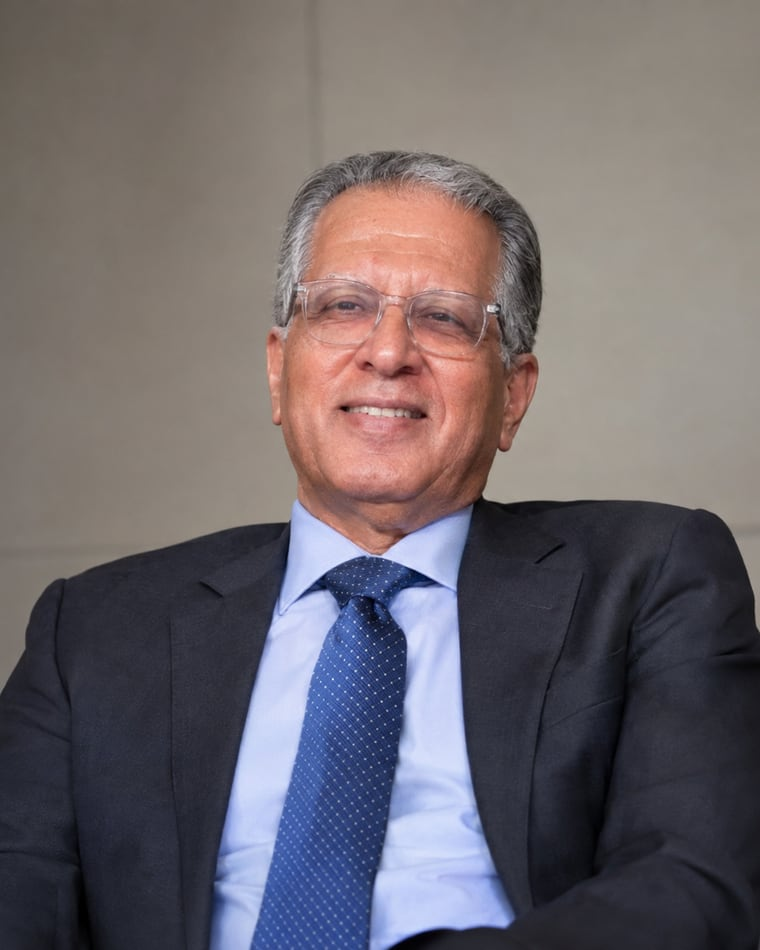
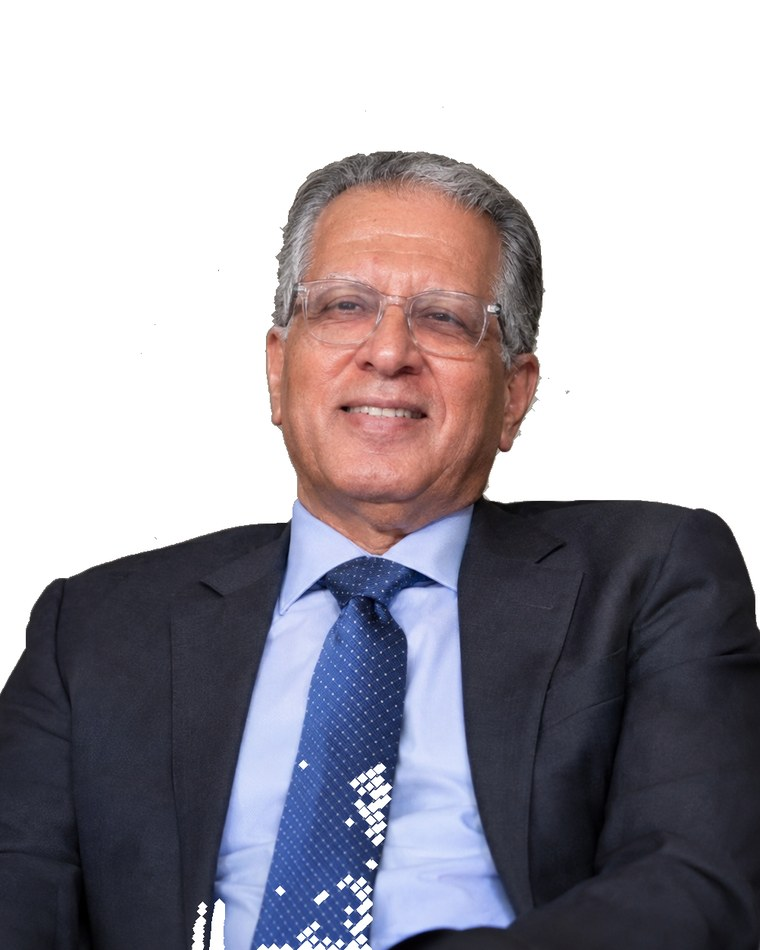
Put the board photos on white, fix the phone number, drop the "Mr" prefix
Client review asked for white backgrounds, Nabil's portrait scaled to match
the others, "Mr" removed from Marwan, and the placeholder phone number
corrected to +9714 8886574 everywhere it appears.

Midhat, Hassan and Nabil are cut out by flooding inward from the frame edge,
gated on warmth so the fill cannot cross into skin or hair — their walls are
neutral while skin sits far warmer. Hassan's mask also gets a morphological
opening to clear the speckle it left across his tie.

Marwan is handled differently: his source is a 373px, 8 KB frame whose pink
background is nearly the colour of his shirt, so any hard mask tears holes
through him. He gets a soft blend toward white weighted by distance from the
background colour instead — no mask, so no holes, at the cost of a faint warm
cast. His card is still visibly the softest of the four; a higher-resolution
original would fix that properly.

Nabil's frame was a tight passport crop, so he is scaled to 62% on a white
canvas rather than cropped, which brings his head size into line.

diff --git a/src/lib/site.ts b/src/lib/site.ts
@@ -9,7 +9,7 @@ export const site = {
   description:
     "Abughazaleh Trading Company (ABCO) LLC is an international trading house operating since 1975 across food products, construction products, factory machinery, detergents and chemicals, logistics and real estate.",
   email: "info@abughazalehabco.com",
-  phone: "+971 4 123 4567",
+  phone: "+9714 8886574",
   address: "Dubai, United Arab Emirates",
 };
 
@@ -148,12 +148,12 @@ export type Leader = {
 export const leadership: Leader[] = [
   {
     slug: "marwan-abu-ghazaleh",
-    name: "Mr. Marwan Abu-Ghazaleh",
+    name: "Marwan Abu-Ghazaleh",
     role: "Chairman",
     linkedin: "https://www.linkedin.com/",
     photo: "/leadership/marwan-abu-ghazaleh.jpg",
     bio: [
-      "Mr. Marwan Abu-Ghazaleh serves as Chairman of Abughazaleh Trading Company (ABCO) LLC, guiding the group's direction and long-term strategy.",
+      "Marwan Abu-Ghazaleh serves as Chairman of Abughazaleh Trading Company (ABCO) LLC, guiding the group's direction and long-term strategy.",
       "Under his stewardship ABCO has grown from its 1975 foundations into a diversified international trading house spanning food, construction, industrial machinery, chemicals, logistics and real estate.",
     ],
     focus: ["Group strategy", "Governance", "Partnerships"],

diff --git a/public/leadership/README.md b/public/leadership/README.md
@@ -7,7 +7,7 @@ falls back to a drawn silhouette.
 
 | File                          | Person                                |
 | ----------------------------- | ------------------------------------- |
-| `marwan-abu-ghazaleh.jpg`     | Mr. Marwan Abu-Ghazaleh — Chairman    |
+| `marwan-abu-ghazaleh.jpg`     | Marwan Abu-Ghazaleh — Chairman        |
 | `midhat-abu-ghazaleh.jpg`     | Midhat Abu-Ghazaleh — CEO             |
 | `hassan-abu-ghazaleh.jpg`     | Hassan Abu-Ghazaleh — Board Member    |
 | `nabil-abu-ghazaleh.jpg`      | Nabil Abu-Ghazaleh — Board Member     |
